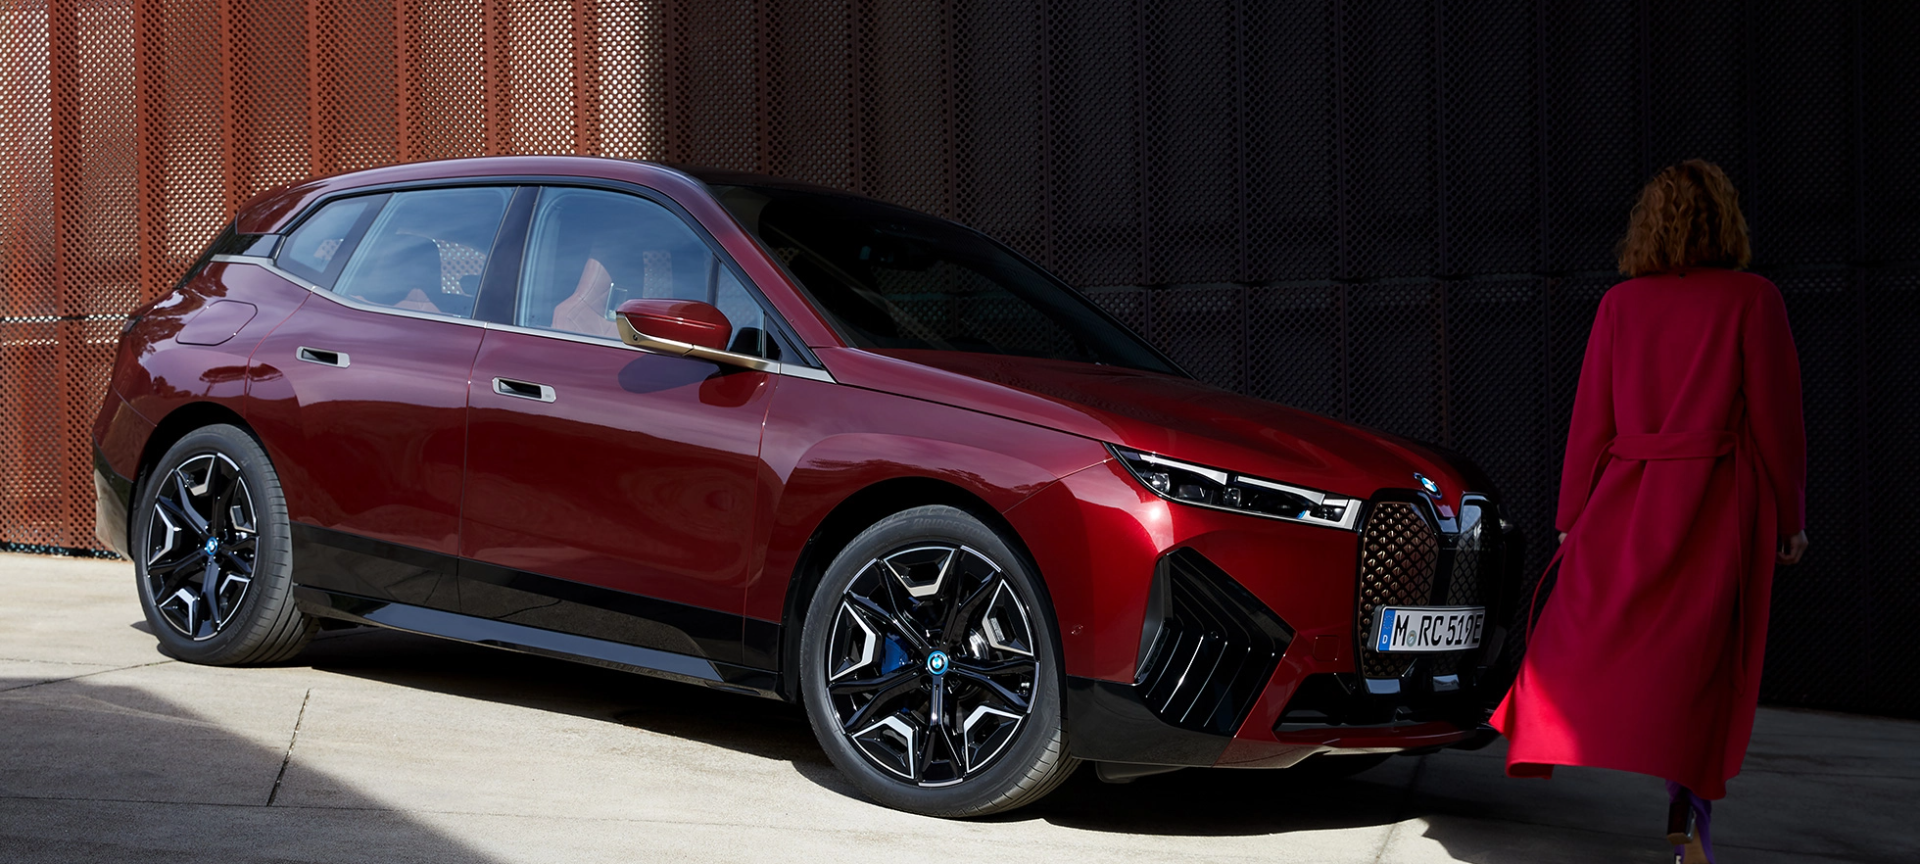
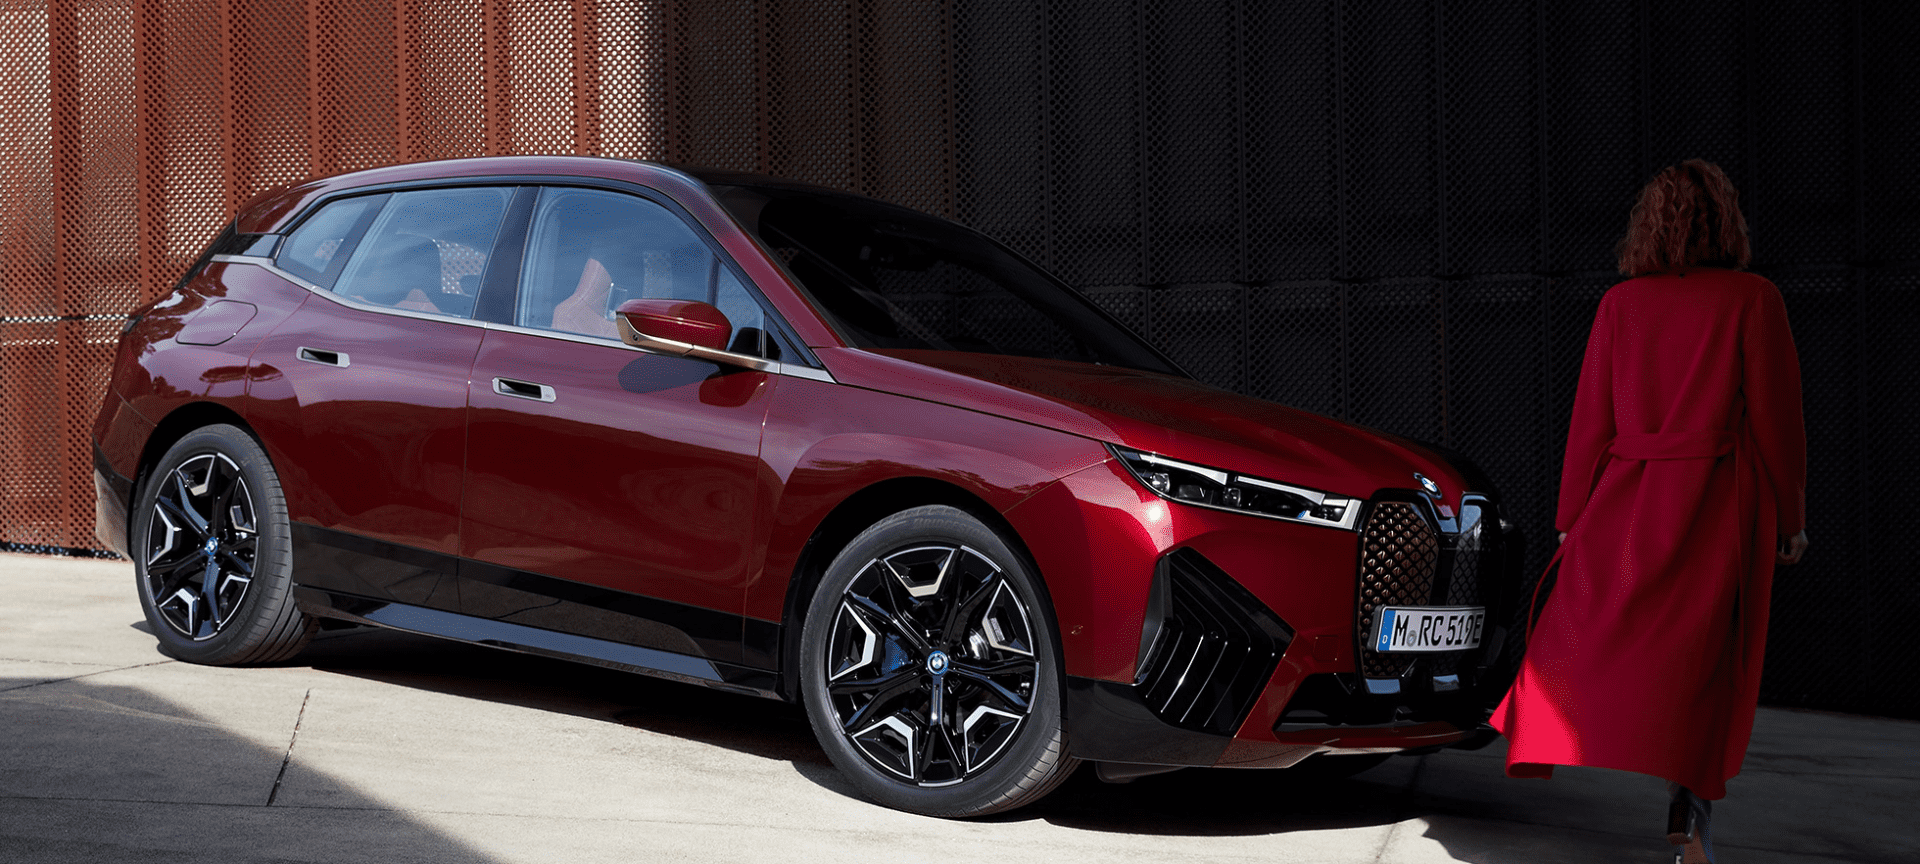
Add retina friendly

diff --git a/css/style.css b/css/style.css
@@ -721,7 +721,7 @@ header p span {
   margin: 0.3125em 0;
 }
 
-@media (max-width: 360px) {
+@media (max-width: 414px) {
   #intro .slider-container .slider1 {
     background-image: url("../images/slider1_small.png");
   }
@@ -730,6 +730,18 @@ header p span {
   }
   #intro .slider-container .slider3 {
     background-image: url("../images/slider1_small.png");
+  }
+}
+
+@media only screen and (max-width: 414px) and (-webkit-min-device-pixel-ratio: 2), (-webkit-min-device-pixel-ratio: 2), (min-resolution: 192dpi) {
+  #intro .slider-container .slider1 {
+    background-image: url("../images/slider1_small@2x.png");
+  }
+  #intro .slider-container .slider2 {
+    background-image: url("../images/slider1_small@2x.png");
+  }
+  #intro .slider-container .slider3 {
+    background-image: url("../images/slider1_small@2x.png");
   }
 }
 
@@ -759,6 +771,18 @@ header p span {
   }
   #intro .slider-container label:nth-child(2) {
     margin-left: 0;
+  }
+}
+
+@media only screen and (min-width: 415px) and (-webkit-min-device-pixel-ratio: 2), (-webkit-min-device-pixel-ratio: 2), (min-resolution: 192dpi) {
+  #intro .slider-container .slider1 {
+    background-image: url("../images/slider1@2x.png");
+  }
+  #intro .slider-container .slider2 {
+    background-image: url("../images/slider2@2x.png");
+  }
+  #intro .slider-container .slider3 {
+    background-image: url("../images/slider3@2x.png");
   }
 }
 
@@ -1075,6 +1099,7 @@ header p span {
   font-family: "Cairo", sans-serif;
   font-weight: 600;
   border: none;
+  cursor: pointer;
 }
 
 #form .overlay {
@@ -1310,4 +1335,4 @@ footer .box .copyright {
     margin: 0px;
   }
 }
[2 lines of base64/hex data omitted]

diff --git a/index.html b/index.html
@@ -62,10 +62,11 @@
       <section id="info-1">
         <div class="images-wrapper">
           <div class="img-1-wrapper">
-            <img src="images/foto1_1.png" alt="BMW 1">
+            <img src="images/foto1_1.png" alt="BMW 1"
+            srcset="images/foto1_1.png 1x, images/foto1_1@2x.png 2x">
           </div>
           <div>
-            <img src="images/foto1_2.png" alt="BMW 2">
+            <img src="images/foto1_2.png" srcset="images/foto1_2.png 1x, images/foto1_2@2x.png 2x" alt="BMW 2">
           </div>
         </div>
         <div class="facts-wrapper">
@@ -116,33 +117,33 @@
         </article>
         <div class="images-wrapper">
           <div>
-            <img src="images/foto2_1.png" alt="Bok samochodu BMW iX">
+            <img src="images/foto2_1.png" srcset="images/foto2_1.png 1x, images/foto2_1@2x.png 2x" alt="Bok samochodu BMW iX">
           </div>
           <div class="img-2-wrapper">
-            <img src="images/foto2_2.png" alt="Tył samochodu BMW iX">
+            <img src="images/foto2_2.png" srcset="images/foto2_2.png 1x, images/foto2_2@2x.png 2x" alt="Tył samochodu BMW iX">
           </div>
         </div>
       </section>
 
       <section id="gallery">
         <div class="left-wrapper">
-          <img src="images/gallery5.png" alt="Kokpit BMW iX">
+          <img src="images/gallery5.png" srcset="images/gallery5.png 1x, images/gallery5@2x.png 2x" alt="Kokpit BMW iX">
         </div>
         <div class="right-wrapper">
           <div class="row">
             <div>
-              <img src="images/gallery2.png" alt="BMW iX srebrny">
+              <img src="images/gallery2.png" srcset="images/gallery2.png 1x, images/gallery2@2x.png 2x" alt="BMW iX srebrny">
             </div>
             <div>
-              <img src="images/gallery1.png" alt="BMW iX czerwony">
+              <img src="images/gallery1.png" srcset="images/gallery1.png 1x, images/gallery1@2x.png 2x" alt="BMW iX czerwony">
             </div>
           </div>
           <div class="row">
             <div>
-              <img src="images/gallery3.png" alt="Tylna kanapa BMW iX">
+              <img src="images/gallery3.png" srcset="images/gallery3.png 1x, images/gallery3@2x.png 2x" alt="Tylna kanapa BMW iX">
             </div>
             <div>
-              <img src="images/gallery4.png" alt="Tył samochodu BMW iX srebrny">
+              <img src="images/gallery4.png" srcset="images/gallery4.png 1x, images/gallery4@2x.png 2x" alt="Tył samochodu BMW iX srebrny">
             </div>
           </div>
         </div>
@@ -154,8 +155,8 @@
           <img class="element-2" src="images/element-background-2.svg" alt="element w tle">
           <img class="element-3" src="images/element-background-3.svg" alt="element w tle">
           <img class="element-4" src="images/element-background-4.svg" alt="element w tle">
-          <img class="image-1" src="images/13273-2022-bmw-ix.png" alt="BMW iX front">
-          <img class="image-2" src="images/bmw-ix-front.png" alt="BMW iX">
+          <img class="image-1" src="images/13273-2022-bmw-ix.png" srcset="images/13273-2022-bmw-ix.png 1x, images/13273-2022-bmw-ix@2x.png 2x" alt="BMW iX front">
+          <img class="image-2" src="images/bmw-ix-front.png" srcset="images/bmw-ix-front.png 1x, images/bmw-ix-front@2x.png 2x" alt="BMW iX">
           <div class="form-wrapper">
             <h2>UMÓW JAZDĘ PRÓBNĄ<sup>BMW <span>i</span>X</sup></h2>
             <p>Zachęcamy do ograniczenia poruszania się i pozostania w domu.</br>

diff --git a/sass/partials/_section-intro.scss b/sass/partials/_section-intro.scss
@@ -136,7 +136,7 @@
   }
 }
 
-@media (max-width: 360px) {
+@media (max-width: 414px) {
   #intro {
     .slider-container {
       .slider1 {
@@ -149,6 +149,25 @@
 
       .slider3 {
         background-image: url("../images/slider1_small.png");
+      }
+    }
+  }
+}
+
+@media only screen and (max-width: 414px) and (-webkit-min-device-pixel-ratio: 2),
+  (min-resolution: 192dpi) {
+  #intro {
+    .slider-container {
+      .slider1 {
+        background-image: url("../images/slider1_small@2x.png");
+      }
+
+      .slider2 {
+        background-image: url("../images/slider1_small@2x.png");
+      }
+
+      .slider3 {
+        background-image: url("../images/slider1_small@2x.png");
       }
     }
   }
@@ -185,6 +204,25 @@
         &:nth-child(2) {
           margin-left: 0;
         }
+      }
+    }
+  }
+}
+
+@media only screen and (min-width: 415px) and (-webkit-min-device-pixel-ratio: 2),
+  (min-resolution: 192dpi) {
+  #intro {
+    .slider-container {
+      .slider1 {
+        background-image: url("../images/slider1@2x.png");
+      }
+
+      .slider2 {
+        background-image: url("../images/slider2@2x.png");
+      }
+
+      .slider3 {
+        background-image: url("../images/slider3@2x.png");
       }
     }
   }

diff --git a/sass/partials/_section-form.scss b/sass/partials/_section-form.scss
@@ -97,6 +97,7 @@
           font-family: $font-first;
           font-weight: 600;
           border: none;
+          cursor: pointer;
         }
       }
     }
